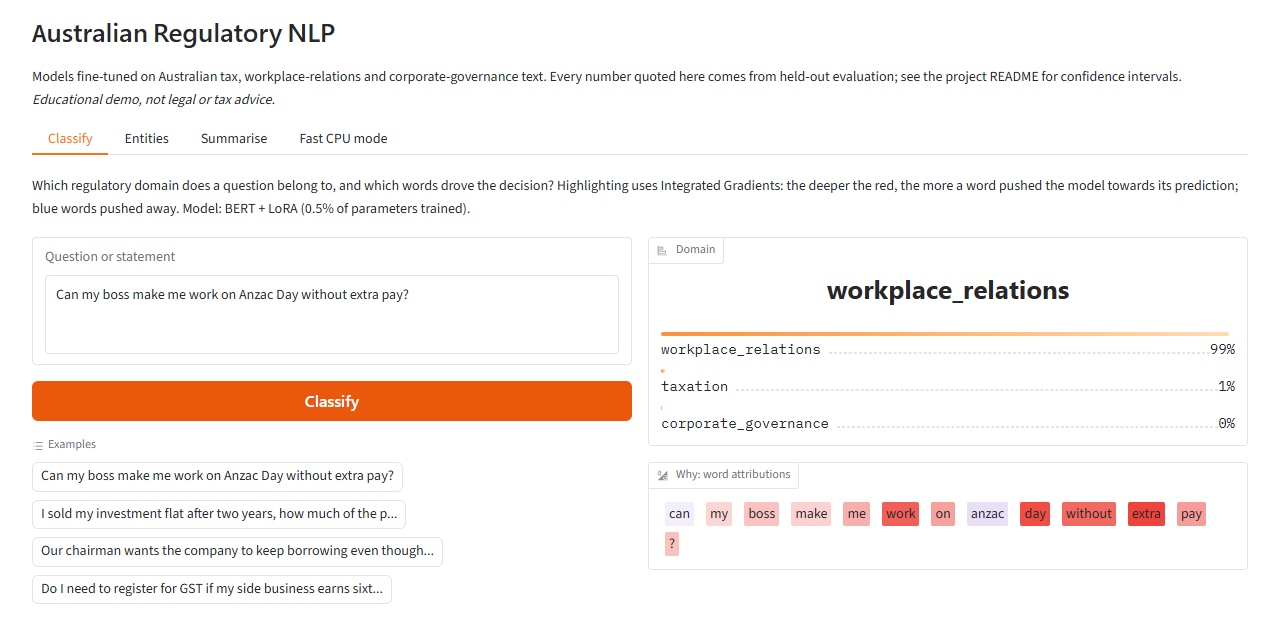
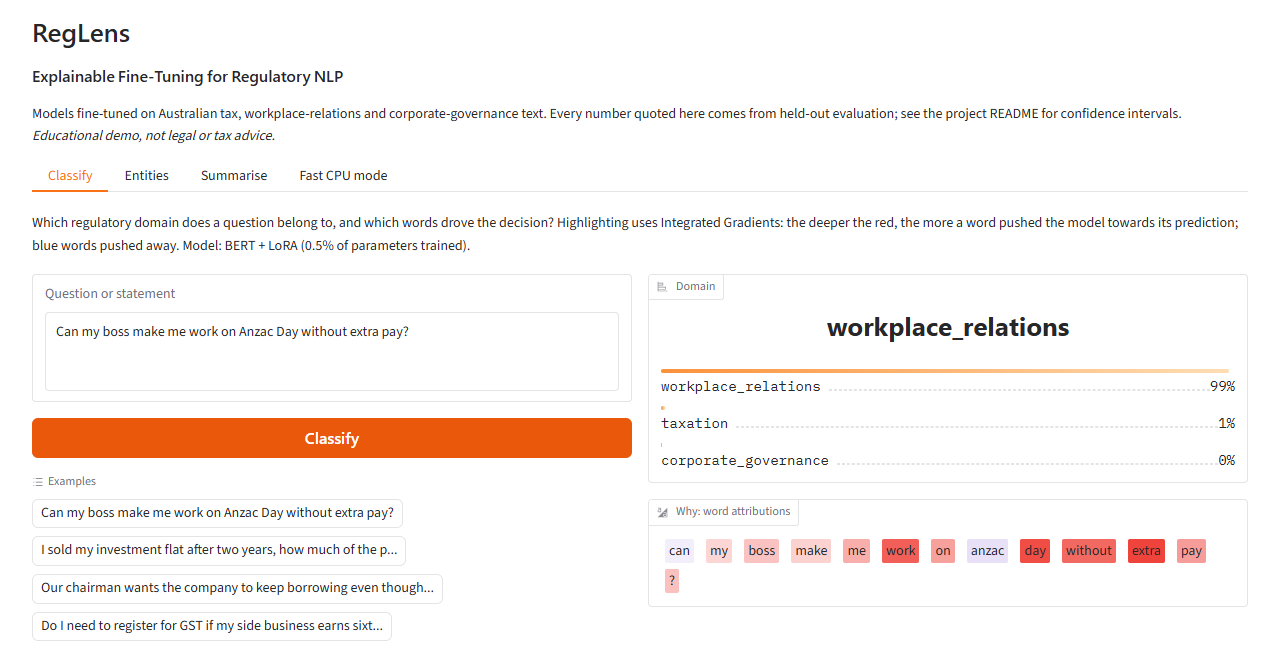
Rename project to RegLens: Explainable Fine-Tuning for Regulatory NLP
Update the project title, package name, licence notice, report headings,
demo title and lockfile to the new name, and refresh the demo
screenshots so they show it.

diff --git a/src/ui.py b/src/ui.py
@@ -39,7 +39,8 @@ SUMMARY_EXAMPLE = (
 ENTITY_COLOURS = {"GOV_BODY": "#2a78d6", "REGULATORY_ACT": "#eb6834", "FINANCIAL_TERM": "#1baf7a", "ORG": "#6250d6"}
 
 INTRO = """
-# Australian Regulatory NLP
+# RegLens
+### Explainable Fine-Tuning for Regulatory NLP
 
 Models fine-tuned on Australian tax, workplace-relations and corporate-governance text.
 Every number quoted here comes from held-out evaluation; see the project README for confidence intervals.
@@ -84,7 +85,7 @@ def build_app(device: str = "auto") -> gr.Blocks:
         probs, ms = onnx_clf.predict(text)
         return probs, f"**{ms:.1f} ms** on CPU (ONNX Runtime, INT8, single sentence)"
 
-    with gr.Blocks(title="Australian Regulatory NLP") as app:
+    with gr.Blocks(title="RegLens") as app:
         gr.Markdown(INTRO)
         with gr.Tab("Classify"):
             gr.Markdown("Which regulatory domain does a question belong to, and which words drove the decision? "

diff --git a/scripts/run_all.py b/scripts/run_all.py
@@ -20,7 +20,7 @@ from src.export import ModelExporter
 
 def main():
     print("=" * 70)
-    print(" Australian NLP Fine-Tuning Suite - Baseline Execution")
+    print(" RegLens - Baseline Execution")
     print("=" * 70)
 
     train_path = os.path.join(BASE_DIR, "data", "processed", "classification", "train.jsonl")
@@ -95,7 +95,7 @@ def main():
     os.makedirs(results_dir, exist_ok=True)
     report_file = os.path.join(results_dir, "classification_report.md")
     with open(report_file, "w", encoding="utf-8") as f:
-        f.write("# Australian NLP Classification Baseline Report\n\n")
+        f.write("# RegLens baseline: regulatory text classification report\n\n")
         f.write(f"- **Accuracy**: {metrics['accuracy'] * 100:.1f}%\n")
         f.write(f"- **Macro-F1**: {metrics['macro_f1']:.4f} (95% CI: [{cis['macro_f1_95ci'][0]:.4f}, {cis['macro_f1_95ci'][1]:.4f}])\n\n")
         f.write("## Per-Class Performance\n\n")

diff --git a/src/__init__.py b/src/__init__.py
@@ -1,2 +1,2 @@
-"""Australian NLP Fine-Tuning Suite."""
+"""RegLens: Explainable Fine-Tuning for Regulatory NLP."""
 __version__ = "1.0.0"

diff --git a/README.md b/README.md
@@ -1,4 +1,4 @@
-# Australian NLP Fine-Tuning Suite
+# RegLens: Explainable Fine-Tuning for Regulatory NLP
 
 Parameter-efficient transformer fine-tuning on Australian regulatory text (taxation, workplace relations and corporate governance). The suite covers sequence classification, named entity recognition, extractive question answering, domain-adaptive pre-training, knowledge distillation, multi-task learning, abstractive summarisation, token attribution, ONNX / INT8 deployment and MLflow experiment tracking. Every number below comes from a run on held-out data, with 95% confidence intervals.
 
@@ -233,7 +233,7 @@ Both need the trained models in `models/`, which `scripts/run_transformer_suite.
 ## Project structure
 
 ```
-Australian-NLP-Fine-Tuning/
+RegLens-Explainable-Fine-Tuning-for-Regulatory-NLP/
 │
 ├── README.md                          Project overview, results and usage
 ├── LICENSE                            Apache-2.0
@@ -333,7 +333,7 @@ Created locally and not in the repository: `.venv/` (environment), `models/` (tr
 Requires [uv](https://github.com/astral-sh/uv). This project has its own isolated environment, pinned to Python 3.12.
 
 ```bash
-cd "Australian NLP fine-tuning"
+cd RegLens-Explainable-Fine-Tuning-for-Regulatory-NLP
 
 # Baseline only (CPU, no deep-learning dependencies)
 uv sync --extra dev

diff --git a/results/classification_report.md b/results/classification_report.md
@@ -1,4 +1,4 @@
-# Australian NLP Classification Baseline Report
+# RegLens baseline: regulatory text classification report
 
 - **Accuracy**: 83.3%
 - **Macro-F1**: 0.8301 (95% CI: [0.7019, 0.9390])
